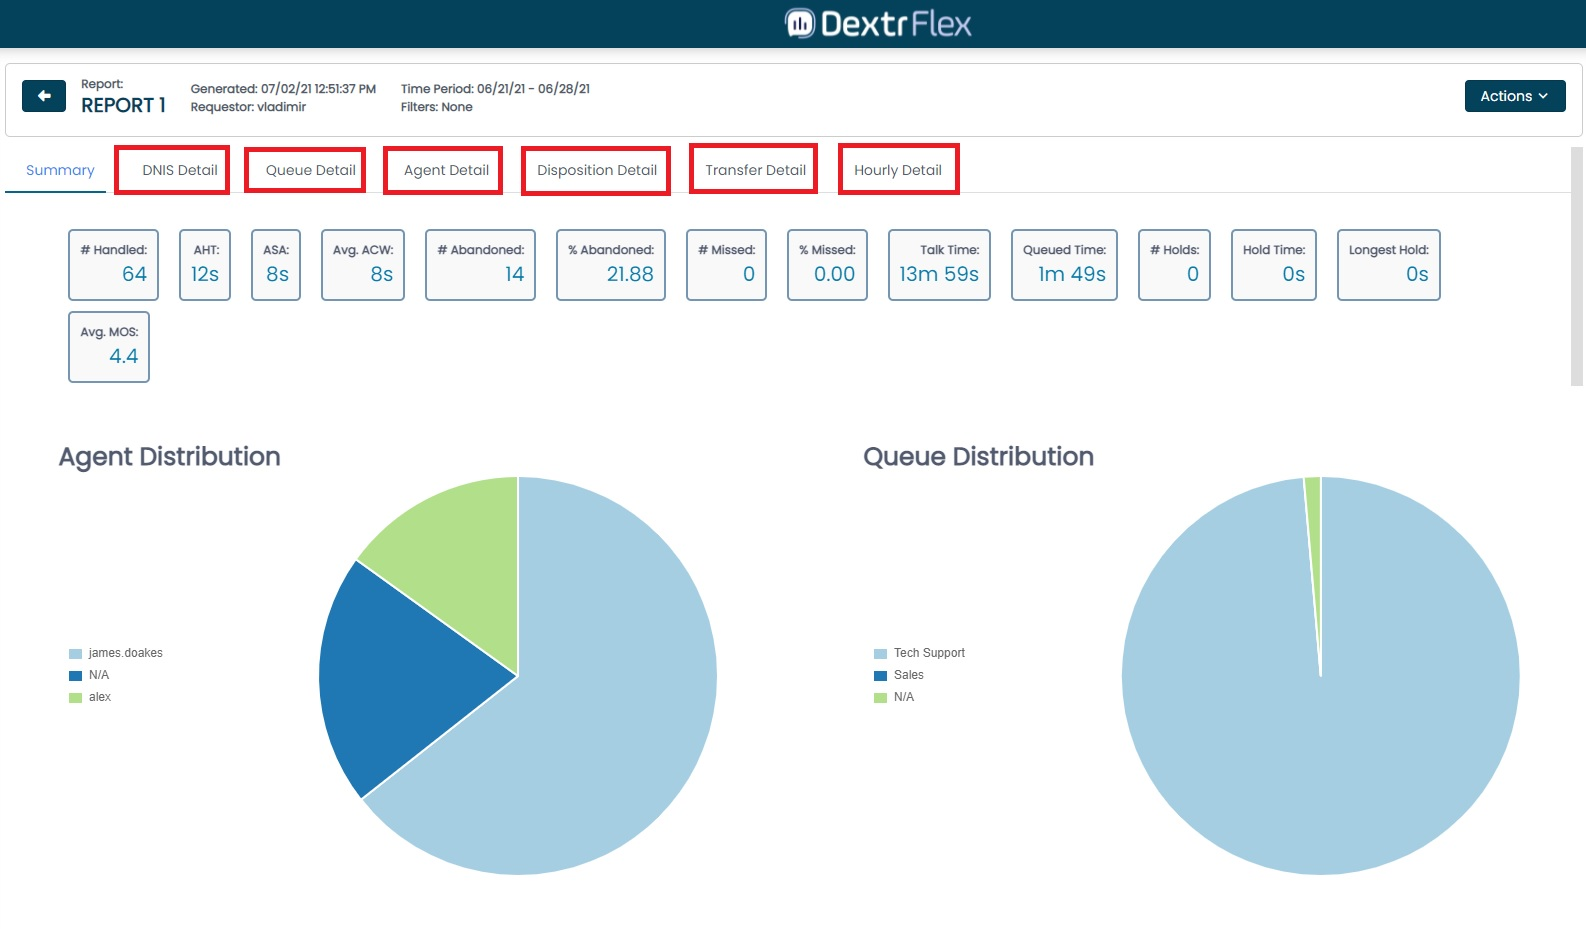
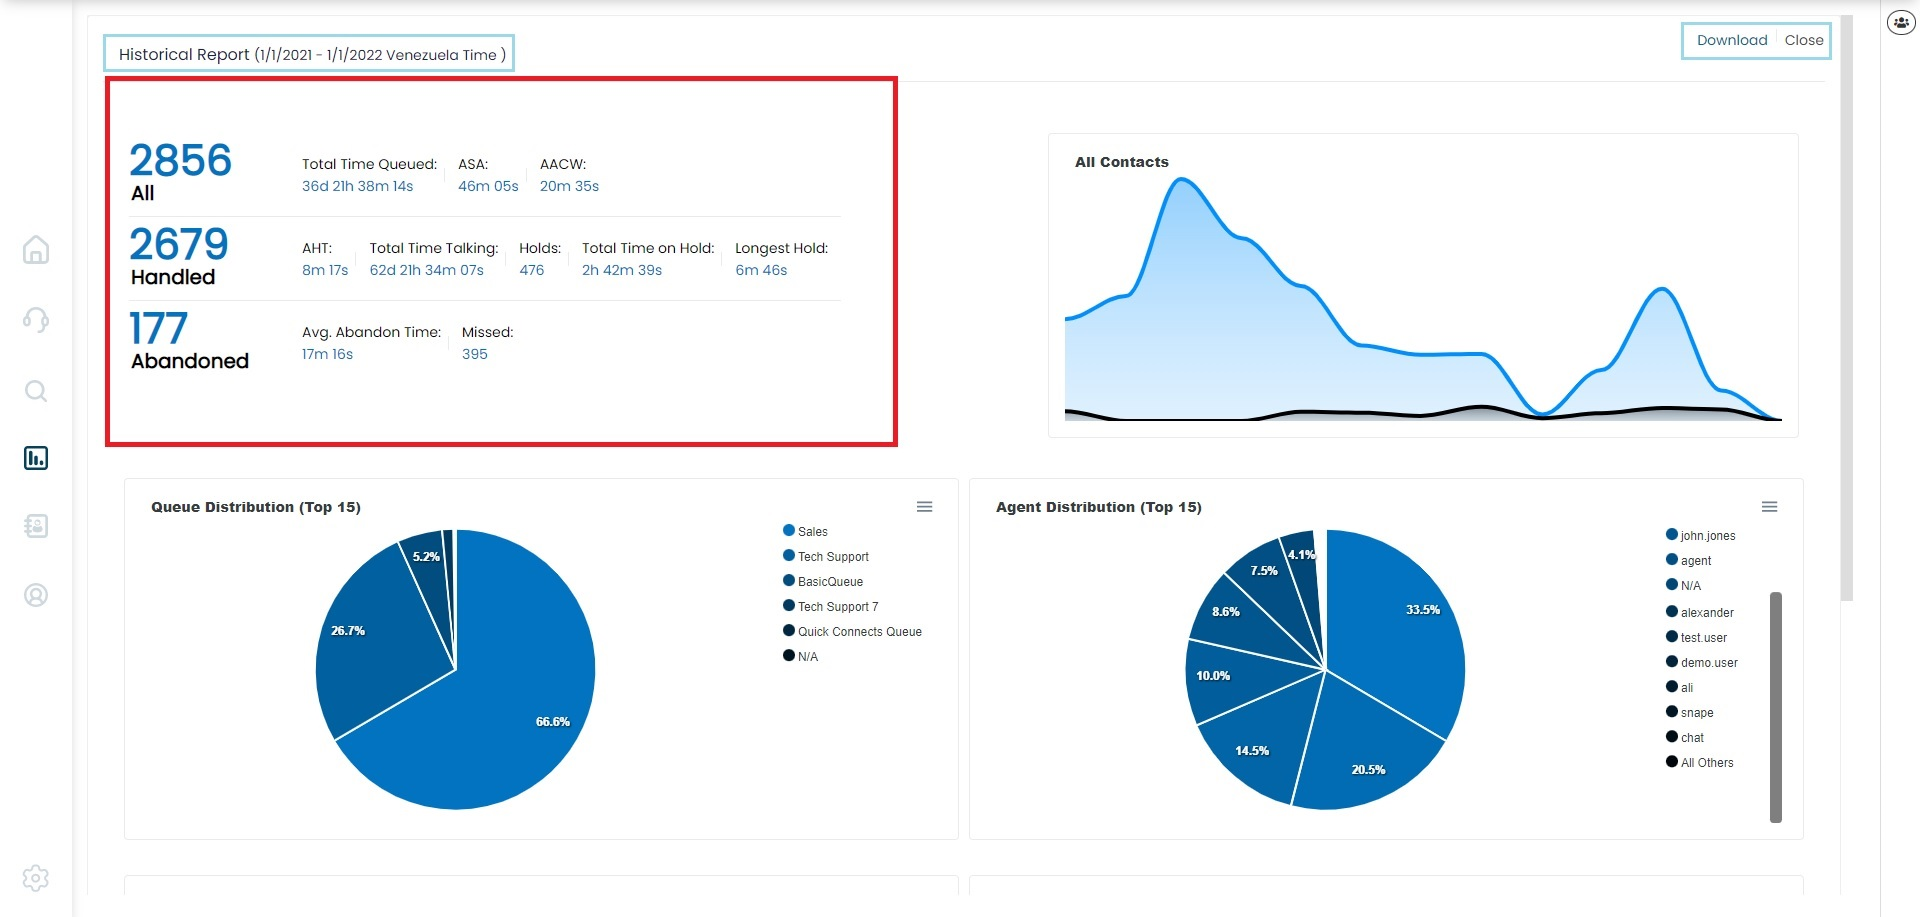
historical report update

diff --git a/docs/_pages/historical-reports.md b/docs/_pages/historical-reports.md
@@ -8,7 +8,7 @@ sidebar:
   nav: "docs"
 ---
 
-Within the Historical Reports TAB you can build, schedule, share and export historical reports without any restrictions on time period. YTD, QTD, MTD and numerous other relative time filters. Export in PDF, share with private URL’s and Dextr Flex’s instant messaging.
+Within the Historical Reports TAB you can build, schedule, share and export historical reports without any restrictions on time period. YTD, QTD, MTD and numerous other relative time filters. Export in excel (.xlxs), share with private URL’s and Dextr Flex’s instant messaging.
 
 ### Create Report
 
@@ -26,36 +26,24 @@ You can also **Schedule** the release of reports (by day, week, month) and set u
 
 ### Report Dashboard
 
-At the top side of the page you can see different details (`Generated`, `Time period`, `Requestor` and `Filters`) and an `Action` button that allows you to either build a schedule, or export the report as a PDF file. The report is also composed of 7 different tabs: Summary, DNIS Detail, Queue Detail, Agent Detail, Disposition Detail, Transfer Detail and Hourly Detail.
+At the top side of the page you can see different details (`Timezone`, `Report time period`) and both a `Download` and `Close` button. The report also displays a summary table with general metrics: `All`, `Handled`, `Abandoned`, `Total Time Queued`, `ASA`, `AACW`, `AHT`,  `Total Time Talking`, `Holds`, `Total Time on Hold`, `Longest Hold`, `Avg. Abandon Time` and `Missed`. 
 
 [![Report Dashboard](/assets/images/Reports/report-dashboard.jpg)](/assets/images/Reports/report-dashboard.jpg)
 
-#### Summary
+#### Charts - All, Queue, Agent, Hour and Channel Distribution
 
-The summary tab shows general metrics and charts you can look at to ease the process of keeping track of your Call Center. You can see the agent who has the most influence per period, or the queue that is most active by looking at the `Agent Distribution` and `Queue Distribution` graphs respectively. 
+These are charts displaying the amount of contacts the instance has perceived between a set of different metrics (number of contacts handled by queue, agent, contacts within an specific hour...) in the selected period of time. Each of these has the option to be downloaded either as a **csv**, **svg**, or **png** file.
 
-[![Agent Charts](/assets/images/Reports/agent-queue-distribution.jpg)](/assets/images/Reports/agent-queue-distritbution.jpg)
+[![Charts](/assets/images/Reports/charts.jpg)](/assets/images/Reports/charts.jpg)
 
-You can also look at the amount of contacts attended with Contacts by Interval (Months, Weeks or Days).
+#### Dowload - Excel file
 
-[![Contacts By Interval](/assets/images/Reports/contacts-by-interval.jpg)](/assets/images/Reports/contacts-by-interval.jpg)
+By clicking the download button you get the excel file which depicts in greater detail the values of each chart and metric. 
 
-#### DNIS, Queue Detail, Agent Detail
+[![Download Report](/assets/images/Reports/download-report.jpg)](/assets/images/Reports/download-report.jpg)
 
-These are customizable tables. You can customize them by clicking the `Configure Table` button to hide or change the order of the metadata. Depending of the tab, the metadata will be filtered by either DNIS, Queue or Agents activity.
 
-[![DNIS Customize](/assets/images/Reports/dnis-customize.jpg)](/assets/images/Reports/dnis-customize.jpg)
-
-The metrics found inside of these tables are: `Contacts Handled`, `Missed`, `Avg. Talk Time`, `Talk Time`, `Avg. ACW`, `Holds`, `Holds Duration`, `Longest Hold` and `Abandoned`. 
-
-[![DNIS Details](/assets/images/Reports/dnis-detail.jpg)](/assets/images/Reports/dnis-detail.jpg)
-
-#### Actions
-
-By clicking the Actions button, you're able to:
-- **Export** the report, which will download a PDF. Please take note that all modifications done to the table by customization will be reflected in the PDF file.
-
-[![Export Report](/assets/images/Reports/export-report.jpg)](/assets/images/Reports/export-report.jpg)
+[![Excel file](/assets/images/Reports/excel-file.jpg)](/assets/images/Reports/excel-file.jpg)
 
 <style>
    h4 {
